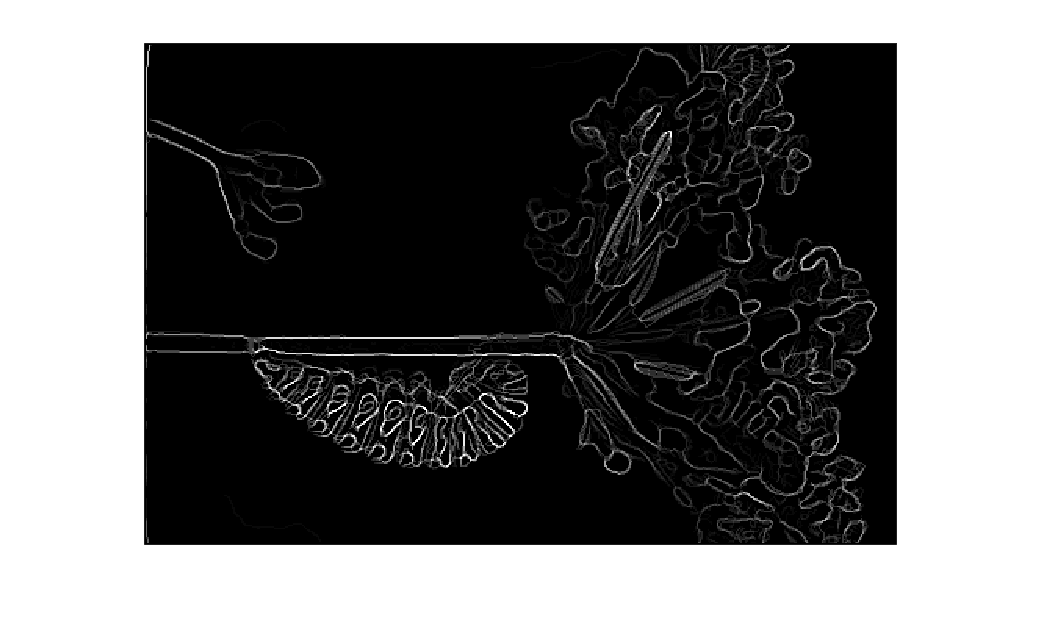
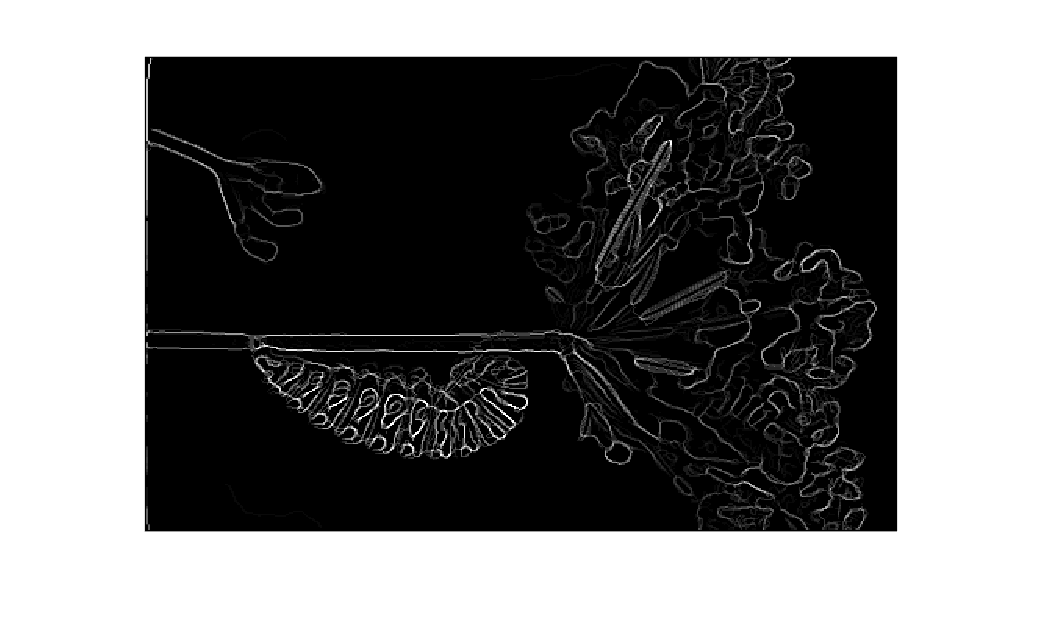
debug

Changed region(s): [[0.1228, 0.0621, 0.8599, 0.8696], [0.1228, 0.1863, 0.3071, 0.4037]]

diff --git a/Part2/Code/computeGradient.m b/Part2/Code/computeGradient.m
@@ -11,9 +11,9 @@ for s = 1:scale
     for o = 1:orient
         tempG = inputD * 0.0;
         for k = 1:K
-            tmp = (inputD == k);
-            g_i = imfilter(tmp, h{s, 1}(:, :, o), 'conv');
-            h_i = imfilter(tmp, h{s, 2}(:, :, o), 'conv');
+            tmp = double((inputD == k));
+            g_i = imfilter(tmp, h{s, 1}(:, :, o), 'conv', 'replicate');
+            h_i = imfilter(tmp, h{s, 2}(:, :, o), 'conv', 'replicate');
             tempG = tempG + 0.5 * double(g_i - h_i).^2 ./ double(g_i + h_i + eps);
         end
         g(:, :, ((s - 1) * orient + o)) = tempG;

diff --git a/Part2/Code/Starter.m b/Part2/Code/Starter.m
@@ -25,7 +25,7 @@ save('filters_gaussian', 'f', 'h');
 imageDir = '../TestImages/';
 testImg = dir([imageDir, '*.jpg']);
 
-for i = 1:2
+for i = 1:numel(testImg)
     disp(strcat('Computing pb-lite for ', testImg(i).name));
     PbLite = myPbLite(imageDir, testImg(i).name, f, h);
 end
